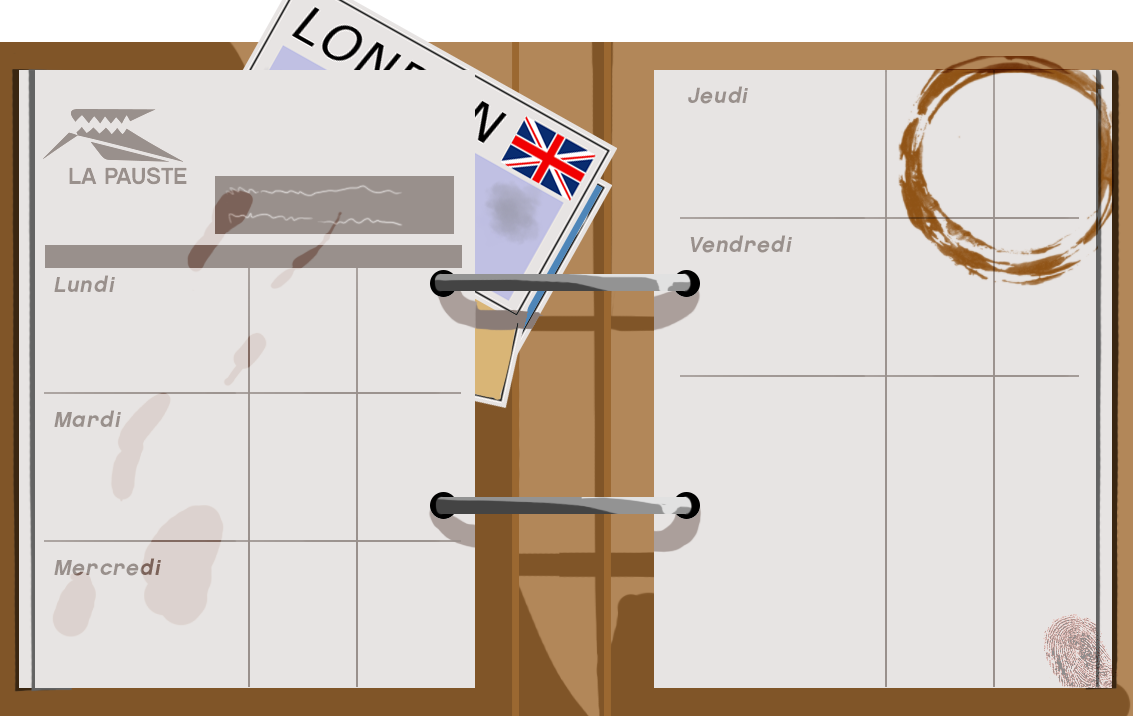
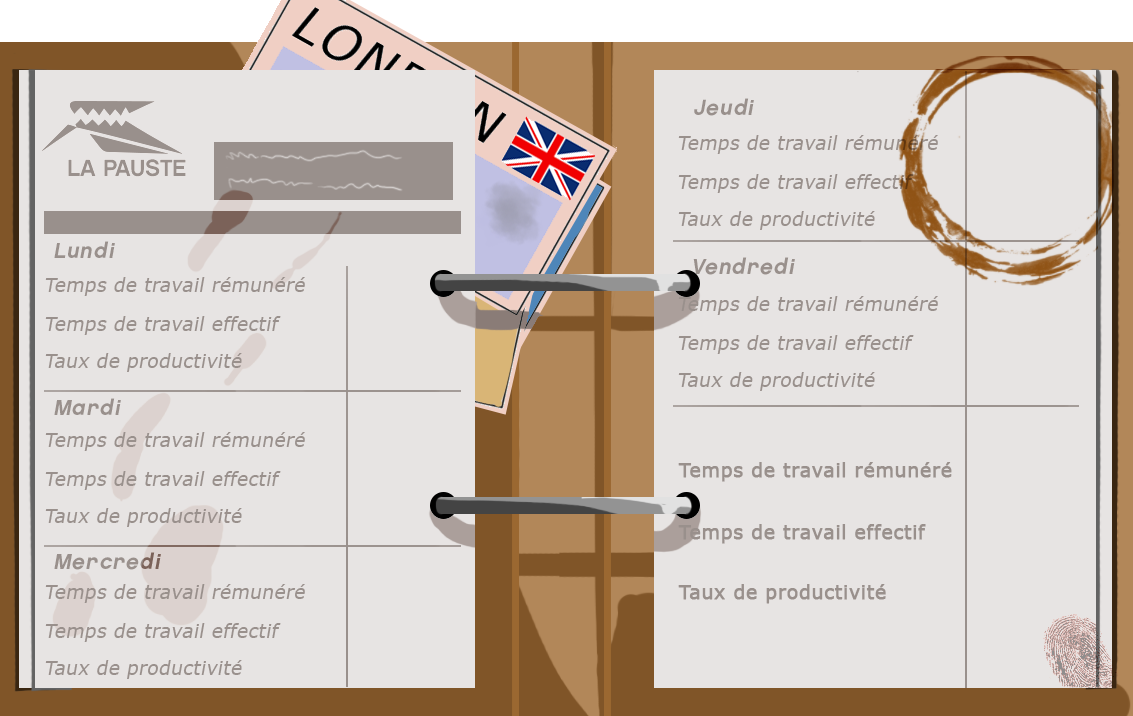
Texts in folder and payslip

diff --git a/js/src/entities/Payslip.js b/js/src/entities/Payslip.js
@@ -1,4 +1,4 @@
-var Payslip = (function(AssetManager) {
+var Payslip = (function(AssetManager, TimeManager, ScoreManager) {
     'use strict';
 
     /**
@@ -32,6 +32,7 @@ var Payslip = (function(AssetManager) {
         var ctx = this.context;
         ctx.font = "32px 'Courier New' bold";
 
+
         var gameTimeWorkedForBoss = TimeManager.instance.realTimeToGameTime(info.workedTimeForBoss);
         var gameTimeActuallyWorked = TimeManager.instance.realTimeToGameTime(info.actualWorkedTime);
 
@@ -44,16 +45,68 @@ var Payslip = (function(AssetManager) {
 
     Payslip.prototype.displayInfoWeek = function(info) {
         var ctx = this.context;
-        ctx.font = "32px 'Courier New' bold";
+        ctx.font = "24px 'Courier New'";
 
-        var gameTimeWorkedForBoss = TimeManager.instance.realTimeToGameTime(info.workedTimeForBoss);
-        var gameTimeActuallyWorked = TimeManager.instance.realTimeToGameTime(info.actualWorkedTime);
+        var gameTimeWorkedForBoss;
+        var gameTimeActuallyWorked;
+        var productivity;
 
-        ctx.fillText('Temps réellement travaillé : ' + gameTimeActuallyWorked.h + "h" + gameTimeActuallyWorked.m, 50, 50);
-        ctx.fillText('Temps patron : ' + gameTimeWorkedForBoss.h + "h" + gameTimeWorkedForBoss.m, 50, 100);
-        ctx.fillText('Réussi : ' + info.nbSuccess, 50, 150);
-        ctx.fillText('Fail : '+info.nbFailed, 50, 200);
-        ctx.fillText(( (info.productivity * 100) | 0)+"%", 50, 250);
+        // Lundi
+        var monday = ScoreManager.instance.daysScore[0];
+        gameTimeActuallyWorked = TimeManager.instance.realTimeToGameTime(monday.actualWorkedTime);
+        gameTimeWorkedForBoss = TimeManager.instance.realTimeToGameTime(monday.workedTimeForBoss);
+        productivity = ( (monday.productivity * 100) | 0) + "%";
+        ctx.fillText(gameTimeActuallyWorked.h + "h" + gameTimeActuallyWorked.m, 440, 315);
+        ctx.fillText(gameTimeWorkedForBoss.h + "h" + gameTimeWorkedForBoss.m, 440, 355);
+        ctx.fillText(productivity, 440, 390);
+
+        // Mardi
+        var tuesday = ScoreManager.instance.daysScore[1];
+        gameTimeActuallyWorked = TimeManager.instance.realTimeToGameTime(tuesday.actualWorkedTime);
+        gameTimeWorkedForBoss = TimeManager.instance.realTimeToGameTime(tuesday.workedTimeForBoss);
+        productivity = ( (tuesday.productivity * 100) | 0) + "%";
+        ctx.fillText(gameTimeActuallyWorked.h + "h" + gameTimeActuallyWorked.m, 440, 465);
+        ctx.fillText(gameTimeWorkedForBoss.h + "h" + gameTimeWorkedForBoss.m, 440, 505);
+        ctx.fillText(productivity, 440, 540);
+        
+
+        // Mercredi
+        var wednesday = ScoreManager.instance.daysScore[2];
+        gameTimeActuallyWorked = TimeManager.instance.realTimeToGameTime(wednesday.actualWorkedTime);
+        gameTimeWorkedForBoss = TimeManager.instance.realTimeToGameTime(wednesday.workedTimeForBoss);
+        productivity = ( (wednesday.productivity * 100) | 0) + "%";
+        ctx.fillText(gameTimeActuallyWorked.h + "h" + gameTimeActuallyWorked.m, 440, 615);
+        ctx.fillText(gameTimeWorkedForBoss.h + "h" + gameTimeWorkedForBoss.m, 440, 655);
+        ctx.fillText(productivity, 440, 690);
+        
+
+        // Jeudi
+        var thursday = ScoreManager.instance.daysScore[3];
+        gameTimeActuallyWorked = TimeManager.instance.realTimeToGameTime(thursday.actualWorkedTime);
+        gameTimeWorkedForBoss = TimeManager.instance.realTimeToGameTime(thursday.workedTimeForBoss);
+        productivity = ( (thursday.productivity * 100) | 0) + "%";
+        ctx.fillText(gameTimeActuallyWorked.h + "h" + gameTimeActuallyWorked.m, 1060, 170);
+        ctx.fillText(gameTimeWorkedForBoss.h + "h" + gameTimeWorkedForBoss.m, 1060, 210);
+        ctx.fillText(productivity, 1060, 245);
+
+
+        // Vendredi
+        var friday = ScoreManager.instance.daysScore[4];
+        gameTimeActuallyWorked = TimeManager.instance.realTimeToGameTime(friday.actualWorkedTime);
+        gameTimeWorkedForBoss = TimeManager.instance.realTimeToGameTime(friday.workedTimeForBoss);
+        productivity = ( (friday.productivity * 100) | 0) + "%";
+        ctx.fillText(gameTimeActuallyWorked.h + "h" + gameTimeActuallyWorked.m, 1060, 330);
+        ctx.fillText(gameTimeWorkedForBoss.h + "h" + gameTimeWorkedForBoss.m, 1060, 370);
+        ctx.fillText(productivity, 1060, 405);
+
+        // Semaine
+        ctx.font = "28px 'Courier New'";
+        gameTimeActuallyWorked = TimeManager.instance.realTimeToGameTime(info.actualWorkedTime);
+        gameTimeWorkedForBoss = TimeManager.instance.realTimeToGameTime(info.workedTimeForBoss);
+        productivity = ( (info.productivity * 100) | 0) + "%";
+        ctx.fillText(gameTimeActuallyWorked.h + "h" + gameTimeActuallyWorked.m, 1060, 500);
+        ctx.fillText(gameTimeWorkedForBoss.h + "h" + gameTimeWorkedForBoss.m, 1060, 560);
+        ctx.fillText(productivity, 1060, 620);
     };
 
     Payslip.prototype.render = function() {
@@ -62,4 +115,4 @@ var Payslip = (function(AssetManager) {
 
     return Payslip;
 
-})(AssetManager);
+})(AssetManager, TimeManager, ScoreManager);

diff --git a/js/src/TimeManager.js b/js/src/TimeManager.js
@@ -24,7 +24,7 @@ var TimeManager = (function(MakeEventDispatcher) {
     };
 
     // Static
-    TimeManager.DAYS                   = ['Lundi', 'Mardi'/*, 'Mercredi', 'Jeudi', 'Vendredi'*/];
+    TimeManager.DAYS                   = ['Lundi', 'Mardi', 'Mercredi', 'Jeudi', 'Vendredi'];
     TimeManager.PERIODS                = ['MORNING', 'AFTERNOON', 'NIGHT'];
     TimeManager.START_PERIOD_MORNING   = "TimeManager.START_PERIOD_MORNING";
     TimeManager.END_PERIOD_MORNING     = "TimeManager.END_PERIOD_MORNING";
@@ -32,8 +32,8 @@ var TimeManager = (function(MakeEventDispatcher) {
     TimeManager.END_OF_DAY             = "TimeManager.END_OF_DAY";
     TimeManager.START_WEEK             = "TimeManager.START_WEEK";
     TimeManager.END_OF_WEEK            = "TimeManager.END_OF_WEEK";
-    TimeManager.MORNING_DURATION       = 120;
-    TimeManager.DAY_DURATION           = 240;
+    TimeManager.MORNING_DURATION       = 5;
+    TimeManager.DAY_DURATION           = 15;
     TimeManager.TIME_BETWEEN_PERIODS   = 3500;
 
     // Private
@@ -84,7 +84,7 @@ var TimeManager = (function(MakeEventDispatcher) {
         if (this.currentPeriod != TimeManager.PERIODS[0]) {
             return;
         }
-        _timeOfDay += 30;   // 30 seconds = 1h in game
+        _timeOfDay += 5;   // 30 seconds = 1h in game
         _timeSinceAction = 0;
         _timeSinceClient = 0;
         this.currentPeriod = TimeManager.PERIODS[1];
